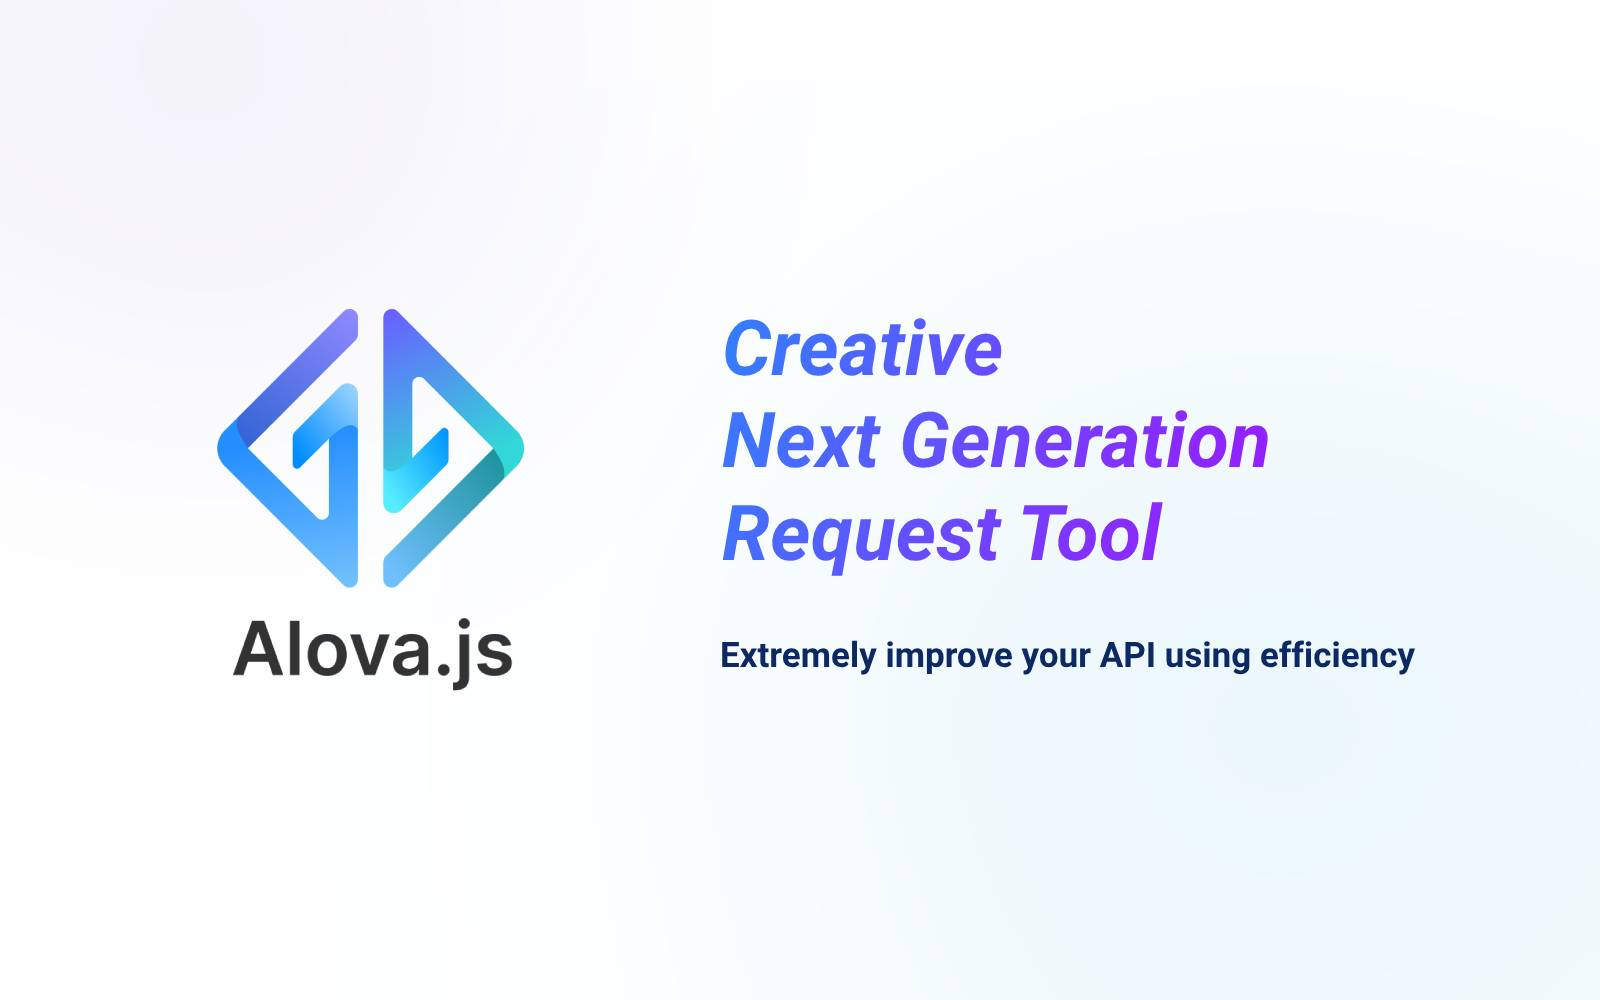
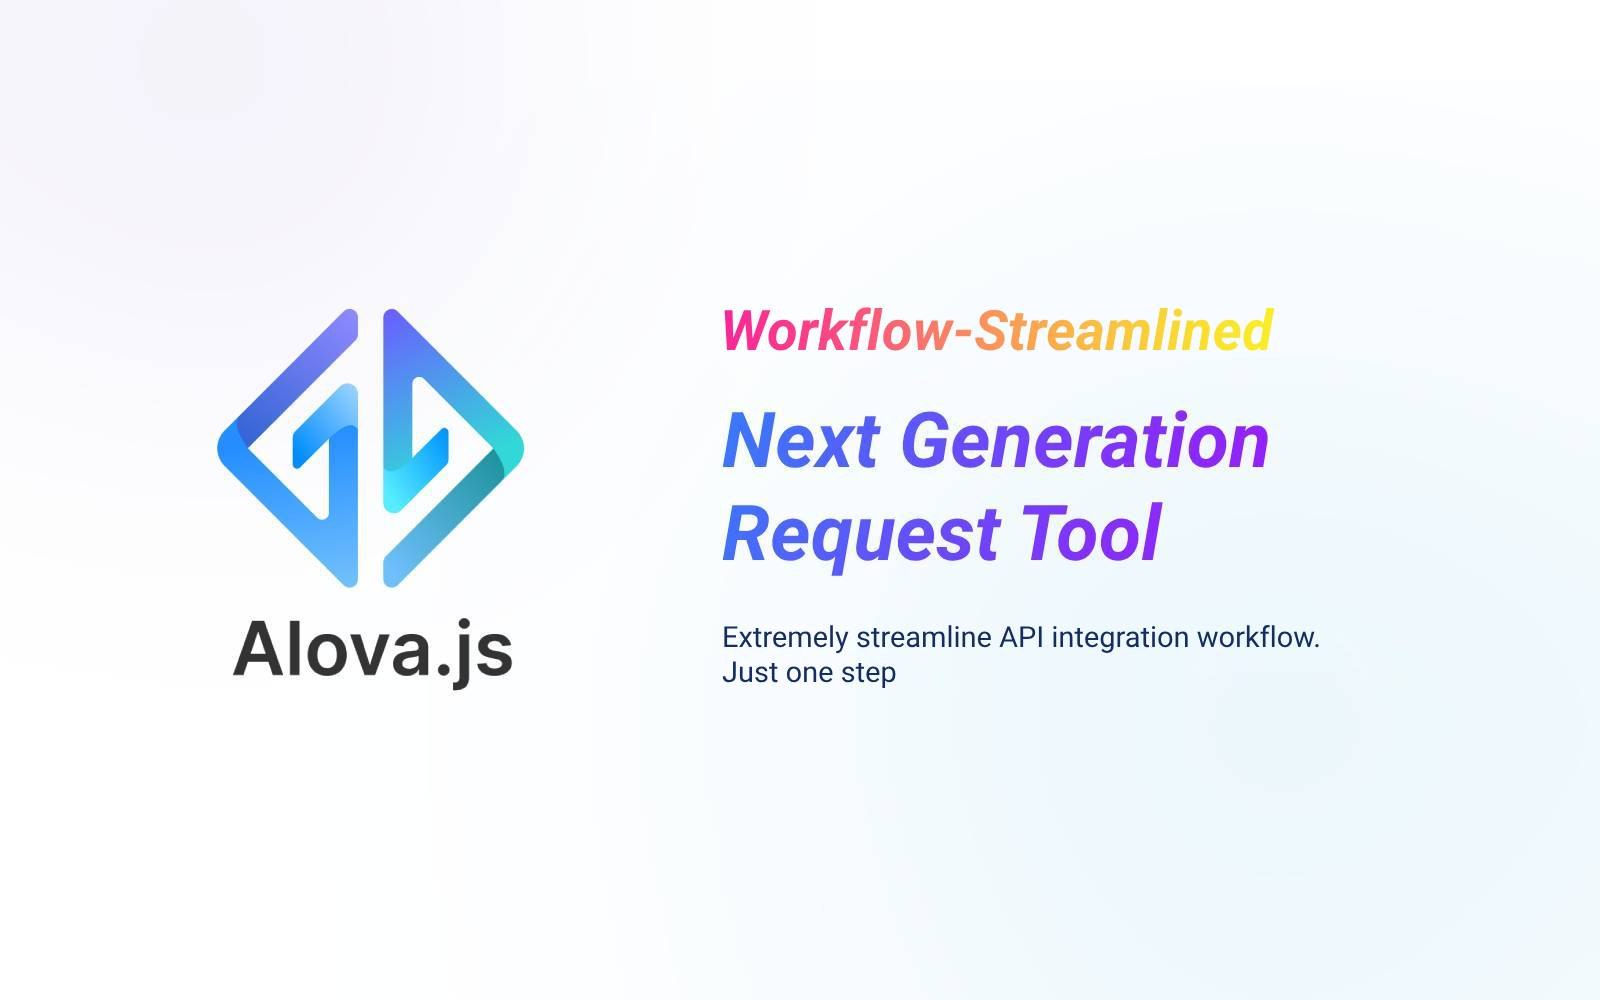
fix: modify homepage's description, change card image

Changed region(s): [[0.4375, 0.62, 0.9062, 0.682], [0.4375, 0.31, 0.8125, 0.372]]

diff --git a/src/pages/index.tsx b/src/pages/index.tsx
@@ -155,11 +155,11 @@ export default function Home(): JSX.Element {
         siteConfig.title +
         ' - ' +
         translate({
-          message: 'Creative next generation request library',
+          message: 'Workflow-streamlined next generation request library',
           id: 'homepage.title'
         })
       }
-      description="alova.js a creative next generation request library">
+      description="alovajs is Workflow-Streamlined Next Generation Request Tool. Extremely streamline API integration workflow. Just one step">
       <div className="dark:bg-[#040f26] overflow-hidden">
         <HomepageHeader></HomepageHeader>
         <main className="mx-auto mt-20 md:mt-40">
